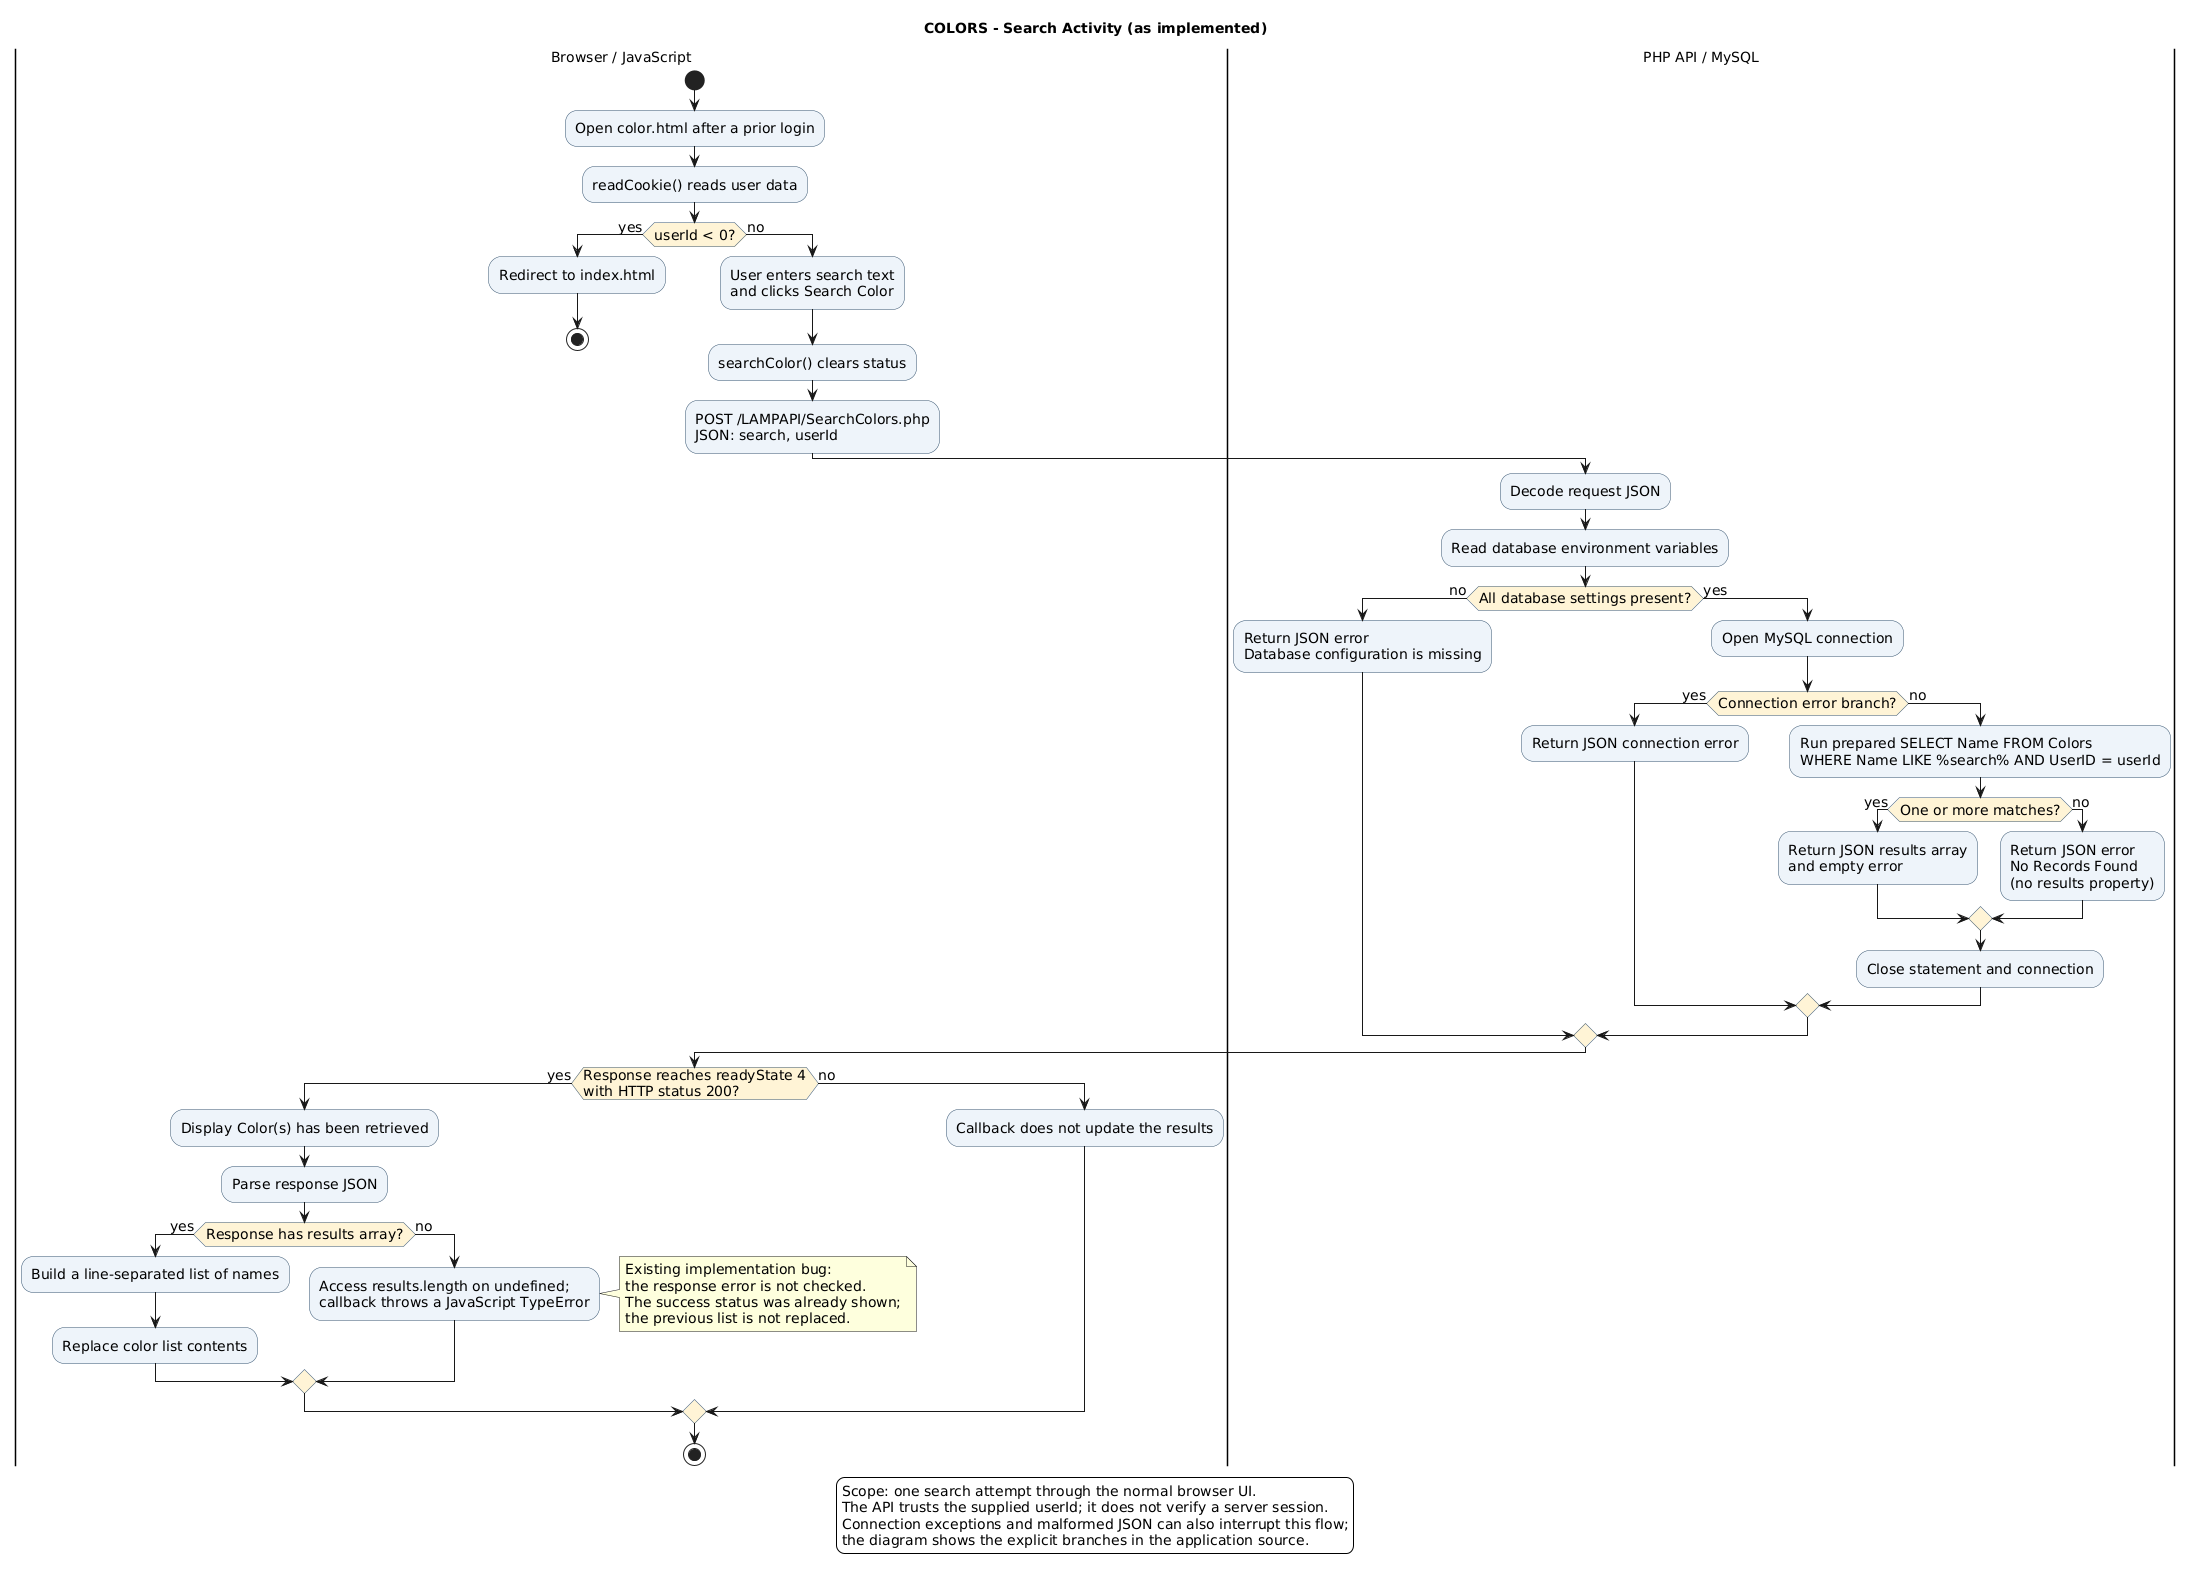
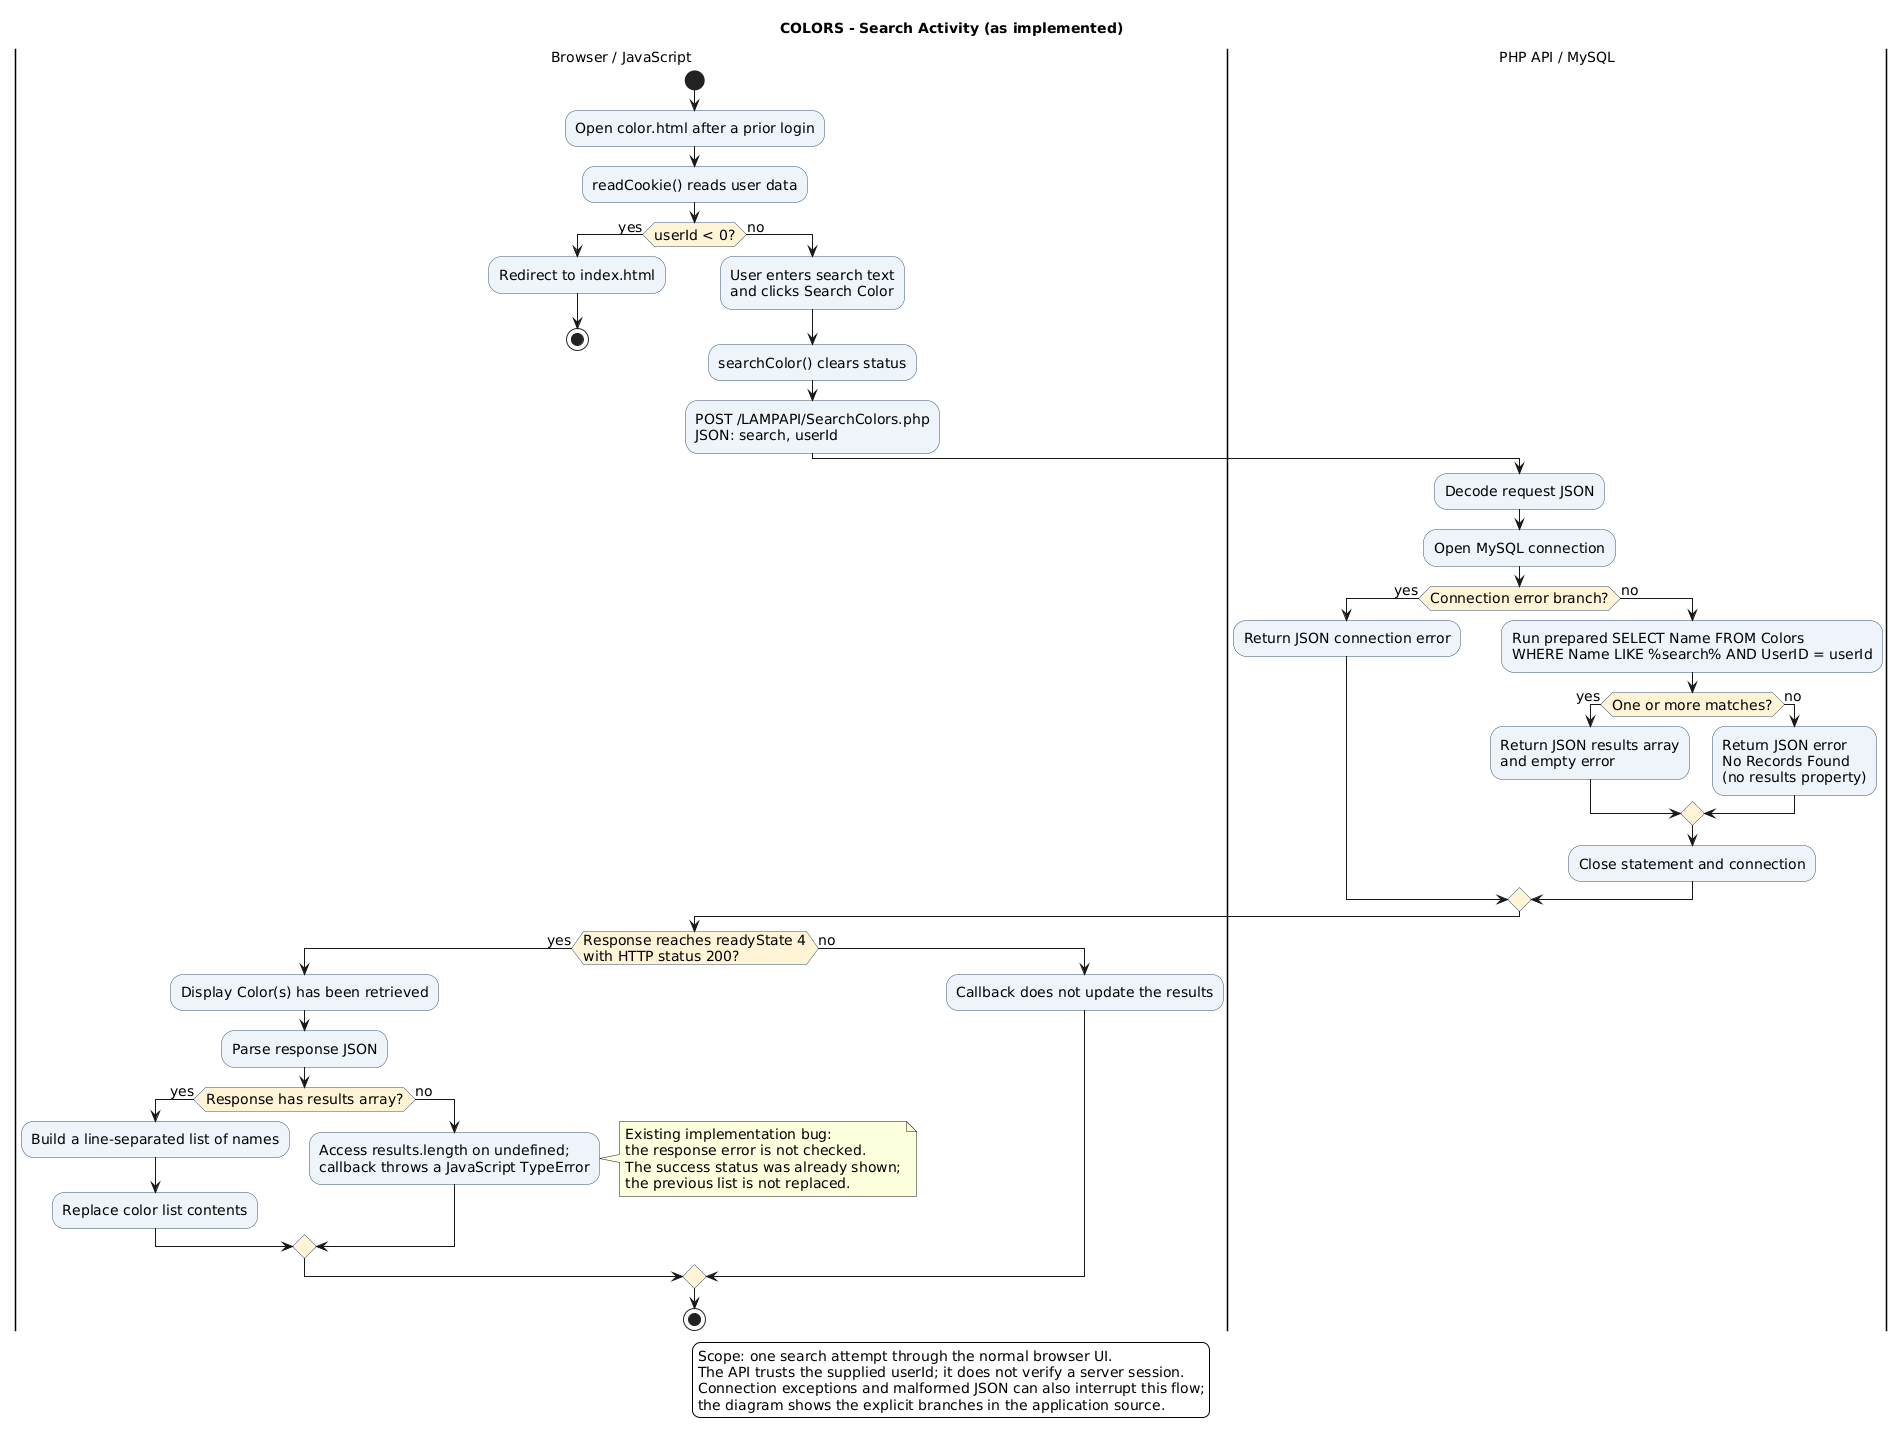
Restore lab database connection format and align UML activity

diff --git a/api/AddColor.php b/api/AddColor.php
@@ -4,18 +4,7 @@
 	$color = $inData["color"];
 	$userId = $inData["userId"];
 
-	$dbHost = getenv('COLORS_DB_HOST');
-	$dbUser = getenv('COLORS_DB_USER');
-	$dbPassword = getenv('COLORS_DB_PASSWORD');
-	$dbName = getenv('COLORS_DB_NAME');
-
-	if (!$dbHost || !$dbUser || !$dbPassword || !$dbName)
-	{
-		returnWithError("Database configuration is missing");
-		exit;
-	}
-
-	$conn = new mysqli($dbHost, $dbUser, $dbPassword, $dbName);
+	$conn = new mysqli("YOUR_DB_HOST", "YOUR_DB_USER", "YOUR_DB_PASSWORD", "YOUR_DB_NAME");
 	if ($conn->connect_error) 
 	{
 		returnWithError( $conn->connect_error );

diff --git a/api/SearchColors.php b/api/SearchColors.php
@@ -5,18 +5,7 @@
 	$searchResults = "";
 	$searchCount = 0;
 
-	$dbHost = getenv('COLORS_DB_HOST');
-	$dbUser = getenv('COLORS_DB_USER');
-	$dbPassword = getenv('COLORS_DB_PASSWORD');
-	$dbName = getenv('COLORS_DB_NAME');
-
-	if (!$dbHost || !$dbUser || !$dbPassword || !$dbName)
-	{
-		returnWithError("Database configuration is missing");
-		exit;
-	}
-
-	$conn = new mysqli($dbHost, $dbUser, $dbPassword, $dbName);
+	$conn = new mysqli("YOUR_DB_HOST", "YOUR_DB_USER", "YOUR_DB_PASSWORD", "YOUR_DB_NAME");
 	if ($conn->connect_error) 
 	{
 		returnWithError( $conn->connect_error );

diff --git a/api/Login.php b/api/Login.php
@@ -7,18 +7,7 @@
 	$firstName = "";
 	$lastName = "";
 
-	$dbHost = getenv('COLORS_DB_HOST');
-	$dbUser = getenv('COLORS_DB_USER');
-	$dbPassword = getenv('COLORS_DB_PASSWORD');
-	$dbName = getenv('COLORS_DB_NAME');
-
-	if (!$dbHost || !$dbUser || !$dbPassword || !$dbName)
-	{
-		returnWithError("Database configuration is missing");
-		exit;
-	}
-
-	$conn = new mysqli($dbHost, $dbUser, $dbPassword, $dbName);
+	$conn = new mysqli("YOUR_DB_HOST", "YOUR_DB_USER", "YOUR_DB_PASSWORD", "YOUR_DB_NAME");
 	if( $conn->connect_error )
 	{
 		returnWithError( $conn->connect_error );

diff --git a/docs/uml/README.md b/docs/uml/README.md
@@ -11,7 +11,7 @@ These diagrams model the application in this repository. Each diagram has a Plan
 ## Scope and verification
 
 - **Use case:** The user can log in, log out, add a color, and search their colors. `public/index.html`, `public/color.html`, and `public/js/code.js` provide these actions. Registration, editing, deleting, and administration are not implemented. Login is a normal UI precondition for color operations, rather than an `include` relationship that would repeat login on every request. The database is internal to the modeled system, rather than an external user actor.
-- **Activity:** The diagram follows one search attempt from loading `color.html` through `readCookie()`, `searchColor()`, and `api/SearchColors.php`. A focused activity diagram models this operation rather than implying that the UI forces a fixed sequence of adding and searching. It includes the new missing-environment-configuration branch and preserves the existing client behavior on error responses. The connection-error decision represents the source's explicit `connect_error` check; on PHP runtimes that throw connection exceptions, the script may terminate earlier.
+- **Activity:** The diagram follows one search attempt from loading `color.html` through `readCookie()`, `searchColor()`, and `api/SearchColors.php`. A focused activity diagram models this operation rather than implying that the UI forces a fixed sequence of adding and searching. It preserves the lab code's existing client behavior on error responses. The connection-error decision represents the source's explicit `connect_error` check; on PHP runtimes that throw connection exceptions, the script may terminate earlier.
 - **Class:** The application uses procedural JavaScript and PHP. The `module` and `script` stereotypes group real global state and functions; they do not claim that source-level classes exist. Dependencies are used for HTTP calls and SQL access. User-to-Color ownership is an association, not inheritance or composition. Users can have zero or more colors. Only fields referenced by the SQL are shown; the repository contains no SQL schema to verify extra fields or physical foreign-key enforcement.
 
 ## Source checks
@@ -23,7 +23,7 @@ These diagrams model the application in this repository. Each diagram has a Plan
 | Add color | `addColor()` sends `color` and `userId`; `AddColor.php` inserts `UserId` and `Name` into `Colors`. |
 | Search colors | `searchColor()` sends `search` and `userId`; `SearchColors.php` uses a prepared `LIKE` query with a user filter and returns color names. |
 | Client state | `userId`, `firstName`, and `lastName` are globals stored by `saveCookie()` and restored by `readCookie()`. The cookie is given a 20-minute expiration. |
-| Connection settings | Each PHP endpoint reads `COLORS_DB_HOST`, `COLORS_DB_USER`, `COLORS_DB_PASSWORD`, and `COLORS_DB_NAME` from the process environment. No actual connection values belong in a diagram or tracked configuration file. |
+| Connection settings | Each endpoint uses the lab's direct `mysqli` connection format. The repository contains placeholder connection values; actual database settings are supplied on the server. |
 
 ## Existing limitations reflected in the model
 
@@ -41,7 +41,7 @@ The class and use-case sources use PlantUML's Smetana layout engine, so no separ
 
 ## Validation performed
 
-All three sources were rendered and the PNGs visually inspected. PHP 8.3 syntax checks passed for the three endpoints. Eighteen local HTTP checks verified the missing-configuration responses and the environment-variable-to-connection mapping using a stubbed MySQL connection; a live database was not tested. A JavaScript mock verified both successful search rendering and the existing no-results callback error described by the activity diagram.
+All three sources were rendered and the PNGs visually inspected. PHP 8.3 syntax checks passed for the three endpoints. The direct connection format was checked against the original lab code; a live database was not tested. A JavaScript mock verified both successful search rendering and the existing no-results callback error described by the activity diagram.
 
 ## AI usage
 

diff --git a/README.md b/README.md
@@ -15,10 +15,10 @@ This project is a simple COLORS web application built using the LAMP stack.
 ## Setup
 
 1. Set up a LAMP server.
-2. Serve the contents of `public/` as the Apache document root. Map `/LAMPAPI` to the repository's `api/` directory, or copy the PHP endpoints into a `LAMPAPI/` directory under your document root. The JavaScript sends requests to `/LAMPAPI`.
-3. Configure the existing lab MySQL database with its `Users` and `Colors` tables. This repository does not include a database creation script.
-4. Configure `COLORS_DB_HOST`, `COLORS_DB_USER`, `COLORS_DB_PASSWORD`, and `COLORS_DB_NAME` in the environment of the PHP process. All four must have nonempty values. With Apache mod_php, use an Apache configuration file outside the repository (for example, `SetEnv COLORS_DB_HOST "your-host"` and equivalent directives for the other variables). With PHP-FPM, configure the pool's environment entries instead. Restart the relevant service after configuration. A `.env` file is **not** automatically loaded by this application.
-5. Create lab user records through the existing database setup; there is no registration page. Open the configured server URL in a browser, log in, and add or search colors.
+2. Place the files in the Apache web directory.
+3. Configure the MySQL database used by the application.
+4. Replace the database connection placeholders in the PHP files with your own values on the server. Keep actual values out of the public repository.
+5. Open the application through the server's web address.
 
 ## Running the Application
 
@@ -35,12 +35,6 @@ This project was created for a class lab and is intended as a basic demonstratio
 ## AI Usage
 
 AI tools were used for guidance and troubleshooting during development and documentation.
-
-## Database credential cleanup
-
-The PHP APIs read their connection settings from environment variables; do not put real connection values in tracked files. Local `.env` and configuration files are ignored, but ignored files do not remove values already committed.
-
-Database credentials were present in earlier commits. Change the exposed database password on the server and update the PHP environment configuration. The cleanup commit removes the values from the current files; it does not erase old commits. Removing them from repository history would be a separate history rewrite that must be coordinated with anyone using the repository.
 
 ## UML diagrams
 
